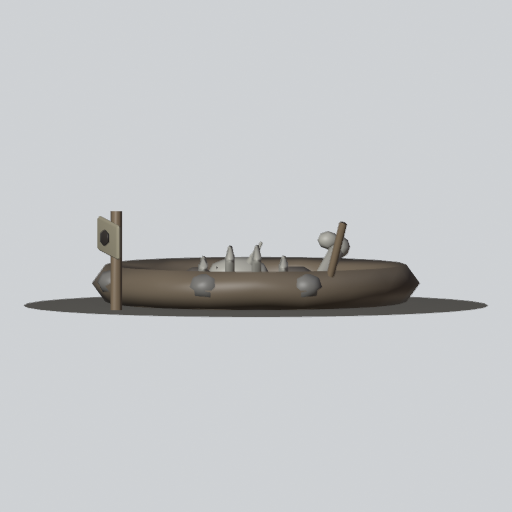
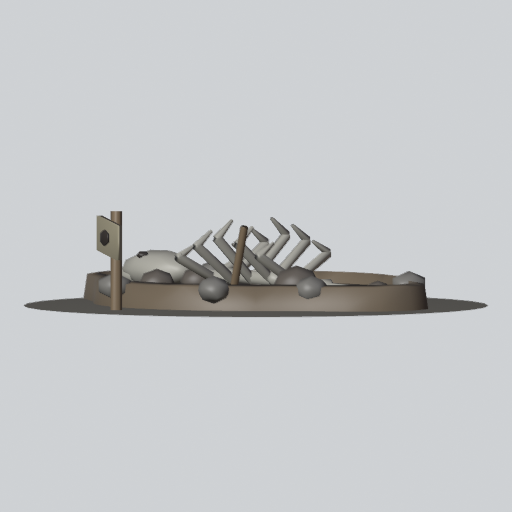
art: Tar Pit (TARPIT) bolder upgrades - S1 wide lobed tar lake with a whole sunken skeleton, S2 glowing hot heart and cracks, brass-spiked skull frill, keg (#443)

Changed region(s): [[0.1562, 0.4062, 0.8438, 0.625]]

diff --git a/tools/art/models/tower/_tarpit.py b/tools/art/models/tower/_tarpit.py
@@ -5,15 +5,20 @@ base (y 0) in Roblox studs; front = -Z (_kit conventions). The pit can't be dama
 
 Stage 0 (tiers 0-2): the earth rim, the tar pool, three bubbles, a thigh bone half sunk, a
                      short warning stake.
-Stage 1 (tier 3):    a sunken ribcage and a dino skull, more bubbles, stones on the rim, a tar
-                     ladle stuck in the edge.
-Stage 2 (tier 5):    a half-sunk brass-banded keg, brass rivets on the stake, glowing hot
-                     bubbles and embers in the tar.
+Stage 1 (tier 3):    a WIDER TAR LAKE - the pool spreads to a wider rim with two lobes out to the
+                     front-right and back-left corners, and a whole dino skeleton lies sunk in
+                     it: a long spine and tail, a big ribcage, a skull at the front-right.
+                     More bubbles, rim stones, a tar ladle.
+Stage 2 (tier 5):    the lake's heart glows - a glowing ring of hot tar with glowing cracks and
+                     hot bubbles - the skull wears a bony frill crowned with brass spikes and
+                     glowing eyes, a brass-banded keg is half sunk at the back-left.
 """
 
 import importlib.util
 import math
 from pathlib import Path
+
+import bmesh
 
 _spec = importlib.util.spec_from_file_location("_kit", Path(__file__).with_name("_kit.py"))
 K = importlib.util.module_from_spec(_spec)
@@ -29,7 +34,140 @@ GLOW = (255, 120, 40)
 TY = 0.12  # the tar's surface
 
 
+def lake_r(t):
+    """The stage-1/2 lake's outline radius at angle t (Roblox x = cos, z = sin): a wide round
+    pool with lobes reaching into the front-right and back-left corners (the back-right stays round)."""
+    lobe = max(0.0, math.cos(2 * (t + math.pi / 4)))  # 1 at -45 (front-right) and 135 deg (back-left)
+    return 1.2 + 0.5 * lobe ** 3
+
+
+def slab(outline, y0, y1):
+    """A flat prism over a closed outline [(x, z), ...] from y0 to y1 (the lake's tar)."""
+    bm = bmesh.new()
+    lo = [bm.verts.new((x, y0, z)) for x, z in outline]
+    hi = [bm.verts.new((x, y1, z)) for x, z in outline]
+    n = len(outline)
+    bm.faces.new(list(reversed(hi)))
+    bm.faces.new(lo)
+    for i in range(n):
+        j = (i + 1) % n
+        bm.faces.new((lo[i], lo[j], hi[j], hi[i]))
+    bmesh.ops.recalc_face_normals(bm, faces=bm.faces)
+    return K._obj(bm, "slab")
+
+
+def band(inner, outer, y0, y1):
+    """A low earth rim between two closed outlines: a flat top, sloped inner and outer walls."""
+    bm = bmesh.new()
+    n = len(inner)
+    ib = [bm.verts.new((x, y0 + 0.06, z)) for x, z in inner]
+    it = [bm.verts.new((x * 1.02, y1, z * 1.02)) for x, z in inner]
+    ot = [bm.verts.new((x * 0.98, y1 - 0.02, z * 0.98)) for x, z in outer]
+    ob = [bm.verts.new((x, y0, z)) for x, z in outer]
+    for i in range(n):
+        j = (i + 1) % n
+        bm.faces.new((ib[i], ib[j], it[j], it[i]))
+        bm.faces.new((it[i], it[j], ot[j], ot[i]))
+        bm.faces.new((ot[i], ot[j], ob[j], ob[i]))
+    bmesh.ops.recalc_face_normals(bm, faces=bm.faces)
+    return K._obj(bm, "band")
+
+
 def build(lp, stage):
+    if stage == 0:
+        return build0(lp)
+    k = K.Kit(lp)
+
+    # the lake: one wide pool with lobes into two corners, a low earth rim round it
+    n = 40
+    ts = [2 * math.pi * i / n for i in range(n)]
+    pool = [(math.cos(t) * lake_r(t), math.sin(t) * lake_r(t)) for t in ts]
+    rim_o = [(math.cos(t) * (lake_r(t) + 0.2), math.sin(t) * (lake_r(t) + 0.2)) for t in ts]
+    rim_o = [(max(-1.48, min(1.48, x)), max(-1.48, min(1.48, z))) for x, z in rim_o]
+    k.add("body", slab(pool, 0.0, TY))
+    k.add("earth", band(pool, rim_o, 0.0, 0.22))
+
+    # bubbles (domes rising from the tar); stage 2's are hot
+    spots = [(-0.55, 0.35, 0.2), (0.45, -0.5, 0.15), (0.1, 0.05, 0.1), (-0.2, -0.85, 0.16), (0.85, 0.35, 0.13),
+             (1.12, -1.1, 0.13), (-1.1, 1.05, 0.11)]
+    bubbles = [K.ell((x, TY + r * 0.3, z), (r, r * 0.85, r), 8, 4) for x, z, r in spots]
+    k.add("glow" if stage >= 2 else "bubble", *bubbles, piece="bubbles")
+    k.add("sheen", *[K.ring((x, TY + 0.005, z), r * 1.3, 0.025, 8, 3) for x, z, r in spots])  # ripples
+
+    # the sunken skeleton: a spine curving from the back-left lobe's tail to a skull at the front-right
+    spine = [(-1.1, TY + 0.02, 1.05), (-0.7, TY + 0.05, 0.6), (-0.25, TY + 0.1, 0.18), (0.2, TY + 0.1, -0.2), (0.55, TY + 0.06, -0.55)]
+    bones = [K.rod(spine[i], spine[i + 1], 0.07 - 0.008 * (3 - i if i < 3 else 0), 6) for i in range(len(spine) - 1)]
+    bones += [K.ell(p, (0.09, 0.08, 0.09), 6, 3) for p in spine[1:4]]  # vertebra knobs
+    # a big ribcage arching out of the tar along the middle of the spine
+    d = (0.71, 0.0, -0.71)  # the spine's direction (back-left -> front-right)
+    side = (0.71, 0.0, 0.71)
+    for u, h in ((-0.45, 0.42), (-0.2, 0.55), (0.05, 0.6), (0.3, 0.5), (0.52, 0.36)):
+        c = (-0.05 + d[0] * u, TY + 0.08, 0.0 + d[2] * u)
+        for sg in (-1, 1):
+            elbow = (c[0] + side[0] * sg * 0.42, TY + h * 0.75, c[2] + side[2] * sg * 0.42)
+            tip = (c[0] + side[0] * sg * 0.24, TY + h, c[2] + side[2] * sg * 0.24)
+            bones += [K.rod(c, elbow, 0.045, 5), K.rod(elbow, tip, 0.04, 5, top=0.4)]
+    # the skull at the front-right lobe, snout to the front-right, the jaw sunk
+    sk = (0.82, TY + 0.13, -0.82)
+    bones += [K.ell(sk, (0.24, 0.17, 0.4), 8, 5, rot=(0, -45, 0)),
+              K.ell((sk[0] + 0.16, TY + 0.08, sk[2] - 0.16), (0.16, 0.1, 0.26), 8, 4, rot=(0, -45, 0))]
+    bones += [K.rod((sk[0] + 0.24 + dx, TY + 0.05, sk[2] - 0.24 + dx), (sk[0] + 0.26 + dx, TY - 0.05, sk[2] - 0.26 + dx), 0.03, 4, top=0.2)
+              for dx in (-0.08, 0.0, 0.08)]  # teeth
+    k.add("bone", *bones)
+    eyes = [K.ell((sk[0] + 0.1 + ex, TY + 0.25, sk[2] - 0.1 + ez), (0.06, 0.04, 0.06), 6, 3) for ex, ez in ((-0.13, -0.05), (0.05, 0.13))]
+    k.add("glow" if stage >= 2 else "tar", *eyes, piece="eyes")
+
+    # stones on the rim (none near the back-right owner-flag corner)
+    stones = [K.ell((math.cos(a) * 1.4, 0.18, math.sin(a) * 1.4), (0.17, 0.12, 0.14), 6, 4, rot=(0, math.degrees(a), 0))
+              for a in (math.radians(d) for d in (195, 240, 160, 110, 345))]
+    k.add("stone", *stones)
+
+    # the warning stake at the front-left, sign tilted
+    sx, sz = -1.25, -1.2
+    k.add("wood", K.rod((sx, 0.0, sz), (sx + 0.04, 0.85, sz), 0.05, 6))
+    k.add("sign", K.rbox((sx + 0.04, 0.62, sz - 0.06), (0.5, 0.3, 0.05), bevel=0, rot=(0, 20, 8)))
+    k.add("tar", K.ell((sx + 0.04, 0.62, sz - 0.1), (0.12, 0.08, 0.02), 6, 3, rot=(0, 20, 0)))
+    # a tar ladle stuck in the edge at the left
+    k.add("wood", K.rod((-1.05, TY, -0.2), (-1.35, 0.72, -0.1), 0.035, 6))
+    k.add("metal", K.ell((-1.0, TY + 0.02, -0.22), (0.13, 0.06, 0.13), 8, 4))
+
+    if stage >= 2:
+        brass = []
+        # the hot heart of the lake: a glowing ring with cracks running out from it
+        heart = [K.ring((0.1, TY + 0.01, 0.0), 0.62, 0.06, 18, 3)]
+        for ang in (20, 95, 160, 230, 300):
+            a0, a1 = math.radians(ang), math.radians(ang + 14)
+            heart.append(K.bar((math.cos(a0) * 0.68 + 0.1, TY + 0.01, math.sin(a0) * 0.68),
+                               (math.cos(a1) * 1.18 + 0.1, TY + 0.01, math.sin(a1) * 1.18), 0.07, 0.03, bevel=0))
+        k.add("glow", *heart, piece="heart")
+        # a bony frill behind the skull, crowned with brass spikes
+        fc = (sk[0] - 0.22, TY + 0.36, sk[2] + 0.22)
+        k.add("bone", K.ell(fc, (0.55, 0.34, 0.08), 10, 4, rot=(-30, -45, 0)))
+        for ang in (-60, -30, 0, 30, 60):
+            ra = math.radians(ang)
+            ox, oy = math.sin(ra) * 0.48, math.cos(ra) * 0.28
+            base = (fc[0] + ox * 0.71, fc[1] + oy * 0.86, fc[2] + ox * 0.71 + oy * 0.5)
+            tip = (base[0] + ox * 0.35, min(0.82, base[1] + oy * 0.6), base[2] + ox * 0.35 + 0.08)
+            brass.append(K.rod(base, tip, 0.08, 6, top=0.1))
+        # a brass-banded keg half sunk at the back-left
+        kx, kz = -0.95, 0.15
+        k.add("wood", K.cyl((kx, TY + 0.15, kz), 0.22, 0.5, 10, rot=(0, 25, 90), bevel=0))
+        ax = (math.cos(math.radians(25)), 0.0, -math.sin(math.radians(25)))
+        brass += [K.ring_along((kx + ax[0] * t, TY + 0.15, kz + ax[2] * t), (kx + ax[0] * (t + 1), TY + 0.15, kz + ax[2] * (t + 1)), 0.22, 0.035, 10, 3)
+                  for t in (-0.15, 0.15)]
+        brass.append(K.cyl((sx + 0.04, 0.86, sz), 0.08, 0.06, 8, bevel=0))  # a brass cap on the stake
+        k.add("brass", *brass)
+
+    colors = {
+        "body": TAR, "sheen": SHEEN, "bubble": (70, 60, 52), "earth": EARTH, "stone": STONE, "bone": BONE,
+        "wood": K.WOOD, "sign": K.SAND, "tar": (24, 20, 18), "metal": K.METAL, "brass": K.BRASS, "glow": GLOW,
+    }
+    return k.model("11d", colors, "TARPIT", stage)
+
+
+def build0(lp):
+    """Stage 0 (tiers 0-2): the round pit."""
+    stage = 0
     k = K.Kit(lp)
 
     # dug-earth rim (a fat low torus) and the tar pool inside it, a sheen across the surface
@@ -53,43 +191,6 @@ def build(lp, stage):
     k.add("wood", K.rod((sx, 0.0, sz), (sx + 0.04, 0.85, sz), 0.05, 6))
     k.add("sign", K.rbox((sx + 0.04, 0.62, sz - 0.06), (0.5, 0.3, 0.05), bevel=0.02, rot=(0, 20, 8)))
     k.add("tar", K.ell((sx + 0.04, 0.62, sz - 0.1), (0.12, 0.08, 0.02), 6, 3, rot=(0, 20, 0)))  # a tar splash on it
-
-    brass = []
-    if stage >= 1:
-        # a sunken ribcage: ribs arcing out of the tar, a spine along it
-        ribs = []
-        for i, u in enumerate((-0.35, -0.12, 0.11, 0.34)):
-            h = 0.42 - abs(u) * 0.4
-            for s in (-1, 1):
-                elbow = (-0.45 + s * 0.34, TY + h * 0.75, u - 0.1)
-                ribs += [K.rod((-0.45 + s * 0.05, TY, u - 0.1), elbow, 0.045, 5),
-                         K.rod(elbow, (-0.45 + s * 0.22, TY + h, u - 0.1), 0.04, 5, top=0.5)]
-        ribs.append(K.rod((-0.45, TY + 0.02, -0.6), (-0.45, TY + 0.02, 0.35), 0.06, 6))
-        # a skull at the front-right, jaw sunk
-        ribs += [K.ell((0.6, TY + 0.1, -0.15), (0.2, 0.15, 0.27), 10, 5),
-                 K.rod((0.48, TY + 0.2, -0.05), (0.42, TY + 0.38, 0.05), 0.04, 5, top=0.3)]
-        k.add("bone", *ribs)
-        k.add("tar", *[K.ell((0.6 + dx, TY + 0.14, -0.33), (0.04, 0.04, 0.02), 6, 3) for dx in (-0.08, 0.08)])  # sockets
-        # stones on the rim
-        stones = [K.ell((math.cos(a) * 1.28, 0.2, math.sin(a) * 1.28), (0.17, 0.12, 0.14), 8, 4, rot=(0, math.degrees(a), 0))
-                  for a in (math.radians(d) for d in (200, 250, 300, 340, 160))]
-        k.add("stone", *stones)
-        # a tar ladle stuck in the edge at the left
-        k.add("wood", K.rod((-1.05, TY, 0.6), (-1.3, 0.75, 0.75), 0.035, 6))
-        k.add("metal", K.ell((-1.0, TY + 0.02, 0.58), (0.13, 0.06, 0.13), 8, 4))
-
-    if stage >= 2:
-        # a brass-banded keg half sunk at the back-left
-        kx, kz = -0.15, 0.6
-        k.add("wood", K.cyl((kx, TY + 0.1, kz), 0.2, 0.45, 10, rot=(0, 25, 90)))
-        ax = (math.cos(math.radians(25)), 0.0, -math.sin(math.radians(25)))
-        brass += [K.ring_along((kx + ax[0] * t, TY + 0.1, kz + ax[2] * t), (kx + ax[0] * (t + 1), TY + 0.1, kz + ax[2] * (t + 1)), 0.2, 0.03, 10, 3)
-                  for t in (-0.13, 0.13)]
-        brass += [K.ell((sx + 0.04 + dx, 0.62 + dy, sz - 0.09), (0.03, 0.03, 0.02), 4, 3) for dx in (-0.18, 0.18) for dy in (-0.08, 0.08)]
-        # embers floating just above the hot tar
-        k.add("glow", *[K.ell((x, TY + 0.03, z), (0.05, 0.03, 0.05), 6, 3) for x, z in ((-0.1, -0.35), (0.3, 0.55), (-0.75, -0.25), (0.85, -0.2))],
-              piece="embers")
-        k.add("brass", *brass)
 
     colors = {
         "body": TAR, "sheen": SHEEN, "bubble": (70, 60, 52), "earth": EARTH, "stone": STONE, "bone": BONE,
